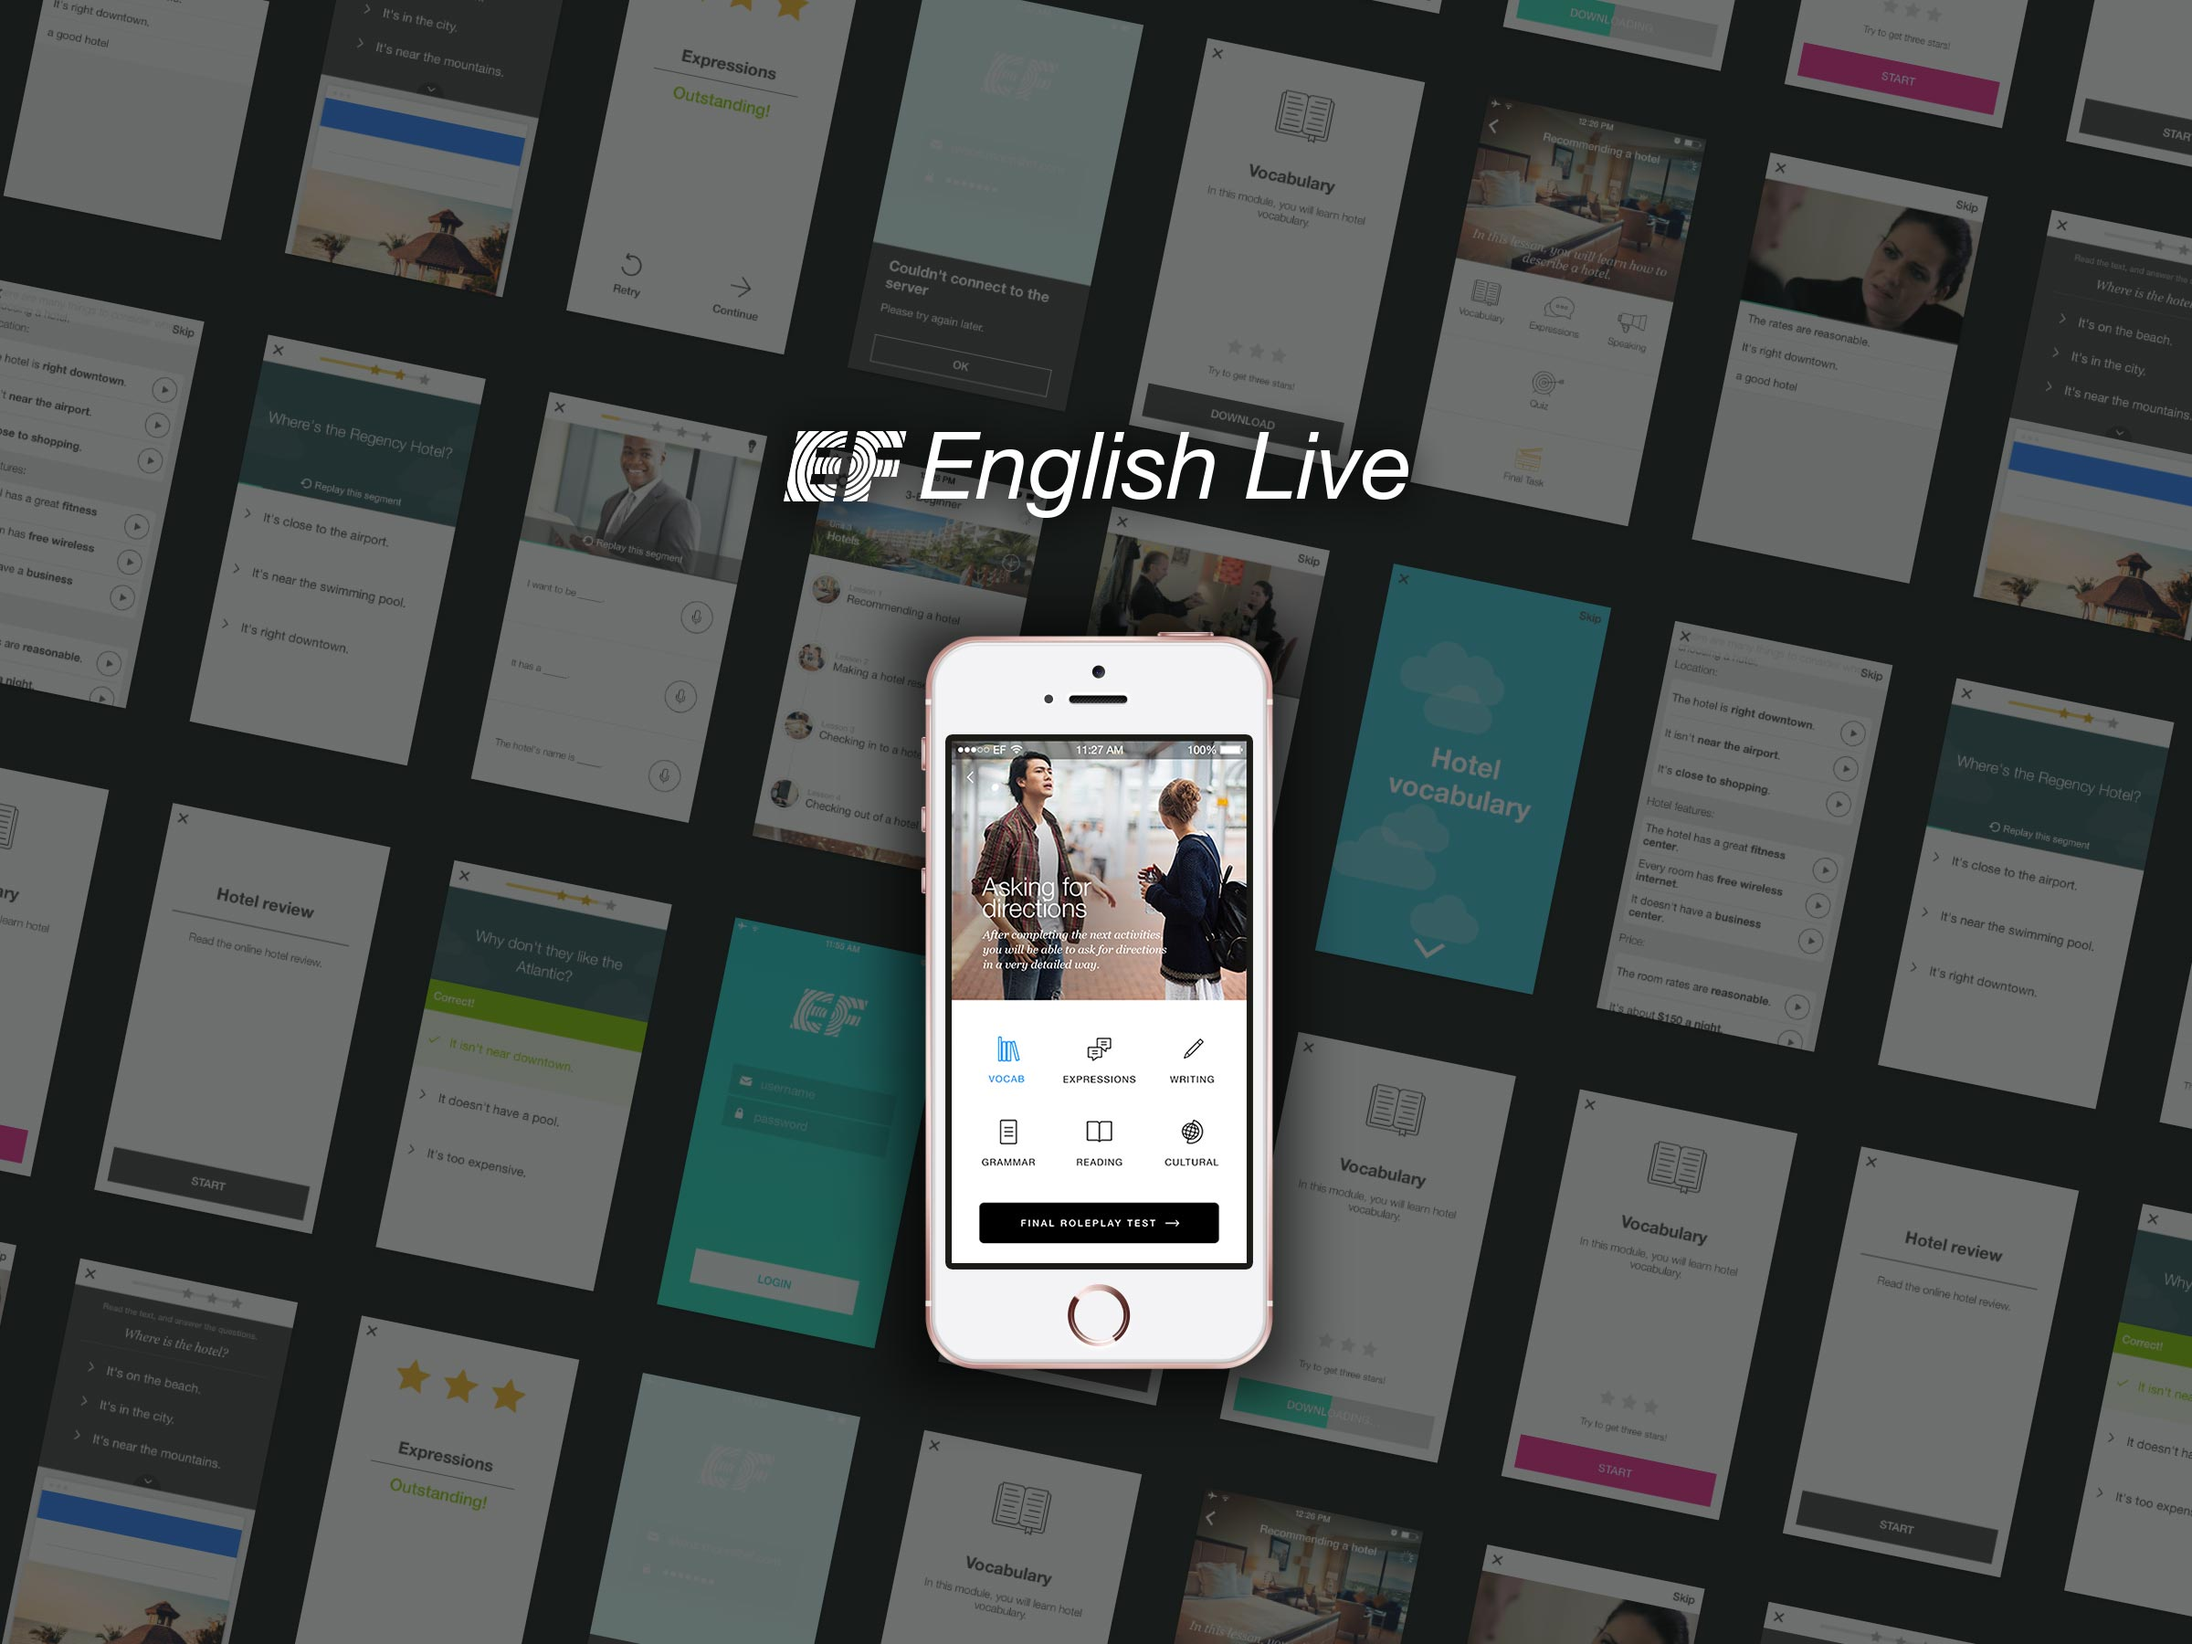
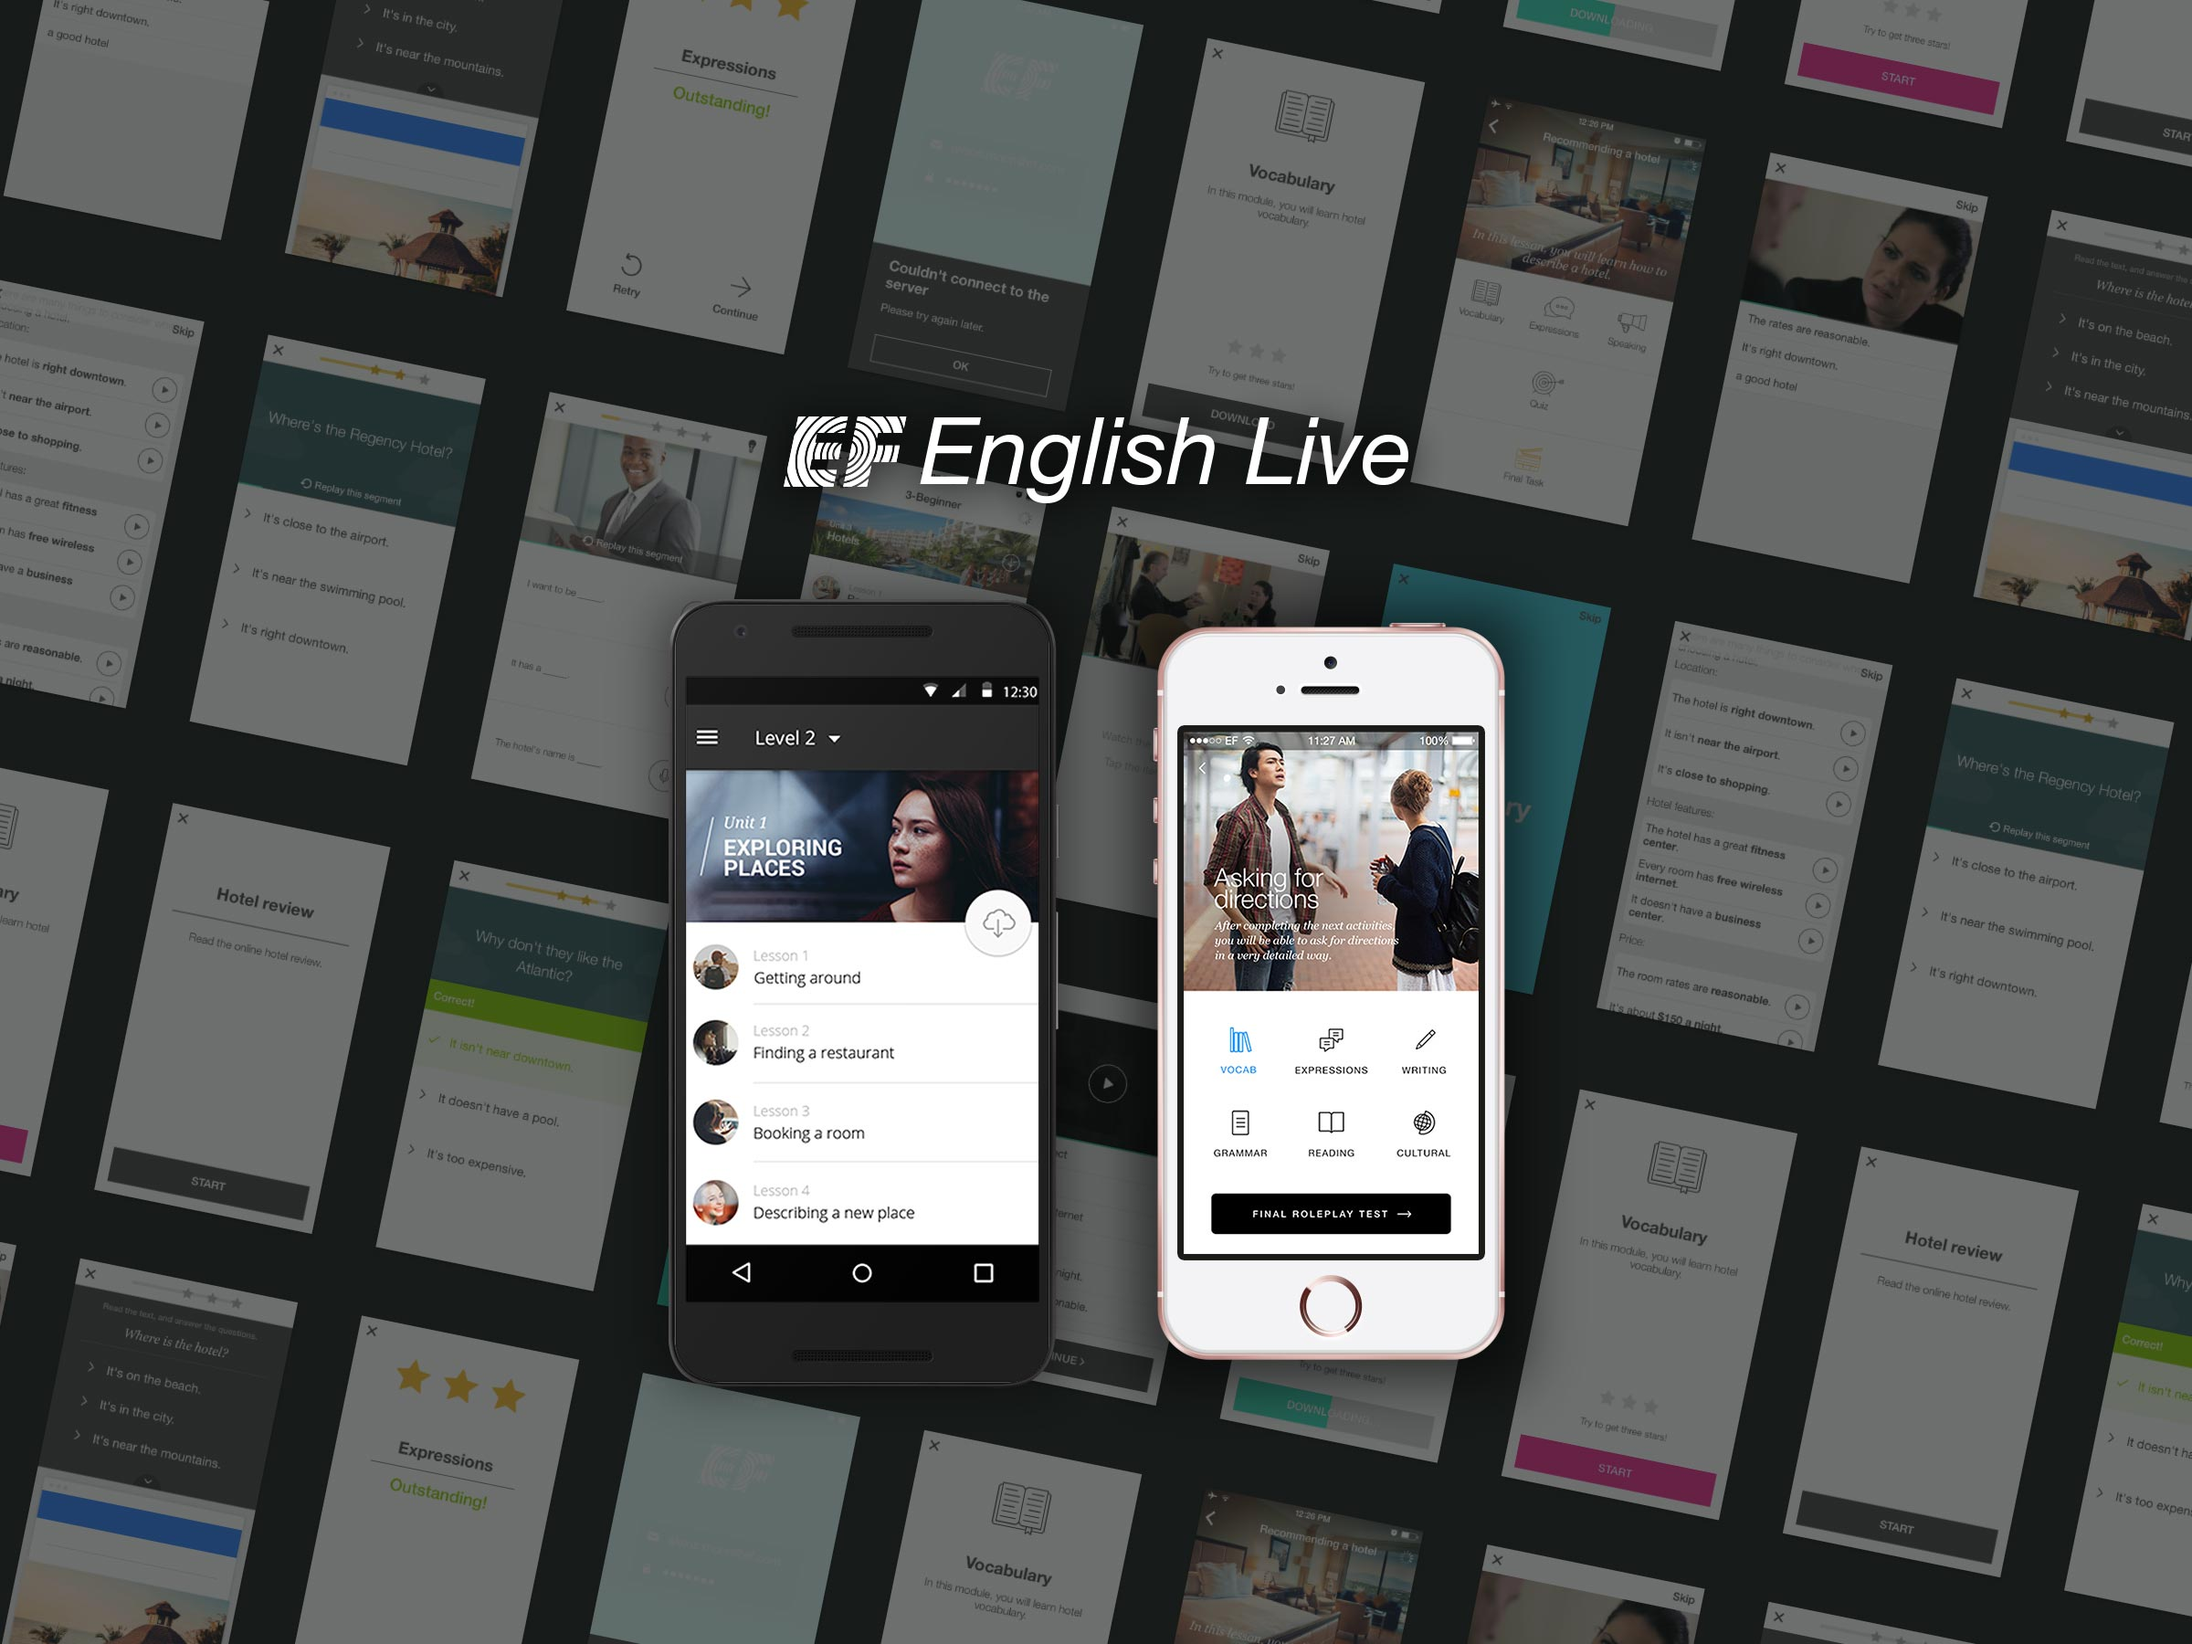
add a 3-up from-to case study

Changed region(s): [[0.2812, 0.3422, 0.7188, 0.8711], [0.3438, 0.2489, 0.6562, 0.3111]]

diff --git a/englishlive.html b/englishlive.html
@@ -101,57 +101,25 @@
         <section>
             <div class="col-xs-12 center">
               <div class="col-xs-12 padding-no center">
-                  <h3 style="font-weight:300;">Built <strong>for</strong> and <strong>with</strong> students &amp; teachers in mind</h3>
+                  <h3 style="font-weight:300;">The challenge</h3>
+                  <p>
+                    Expand an successful (but legacy) English learning web product to mobile, across platforms,
+                    while maintaining educational value.
+                  </p>
               </div>
-                <div class="col-md-6 padding-xs">
-                    <h4>Teacher Observation</h4>
-                    <p>
-                      <img src="images/projects/classroom/teacher-observation.jpg" width="100%" />
-                    </p>
-                </div>
-                <div class="col-md-6 padding-xs">
-                  <h4>Bespoke Features</h4>
-                  <ul class="teacherfeatures">
-                    <li>
-                      <img src="images/projects/classroom/raisehand.png" />
-                      Class Management
-                    </li>
-                    <li>
-                      <img src="images/projects/classroom/slides.png" />
-                      Tailored Teaching Content
-                    </li>
-                    <li>
-                      <img src="images/projects/classroom/mutedmic.png" />
-                      Microphone Rights Control
-                    </li>
-                  </ul>
-                </div>
+              <div class="col-xs-12 center">
+                <h3 style="font-weight:300;">From this</h3>
+                <img src="images/projects/englishlive/for-since-web@2x.png" width="100%" />
+              </div>
+              <div class="col-xs-12 padding-no center">
+                <h3 style="font-weight:300;">To this</h3>
+                <img src="images/projects/englishlive/for-since-mobile-android@2x.png" width="50%" style="float:left;" />
+                <img src="images/projects/englishlive/for-since-mobile-ios@2x.png" width="50%" style="float:left;" />
+              </div>
             </div>
         </section>
     </div>
-    <div class="content" id="teacherteaching">
-        <section>
-            <h4>Students can learn anywhere, at their convenience.</h4>
-        </section>
-    </div>
-    <div class="content">
-        <section>
-            <div class="col-xs-12 center">
-                <div class="col-xs-12 padding-no center">
-                    <h3 style="font-weight:300;">Consistent Across The Board</h3>
-                </div>
-                <div class="col-md-2">
-                    <h4>Icons</h4>
-                    <p>
-                      Unique, tailor-made, cross-device, and readable.
-                    </p>
-                </div>
-                <div class="col-md-10">
-                    <img src="images/projects/classroom/classroom-icons@2x.jpg" style="width:100%;" />
-                </div>
-            </div>
-        </section>
-    </div>
+    
     <div class="content contribution" id="englishliveContribution">
       <section>
         <div class="col-xs-12 center">
